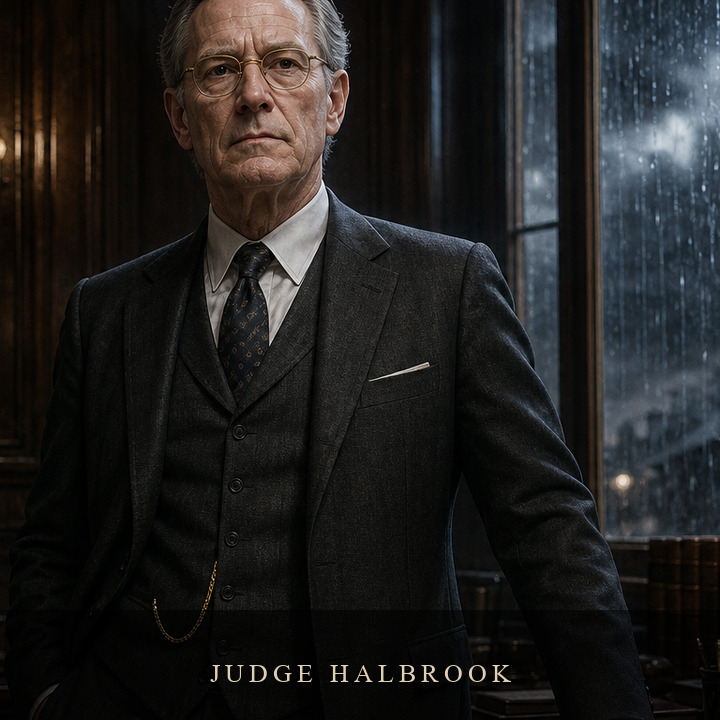
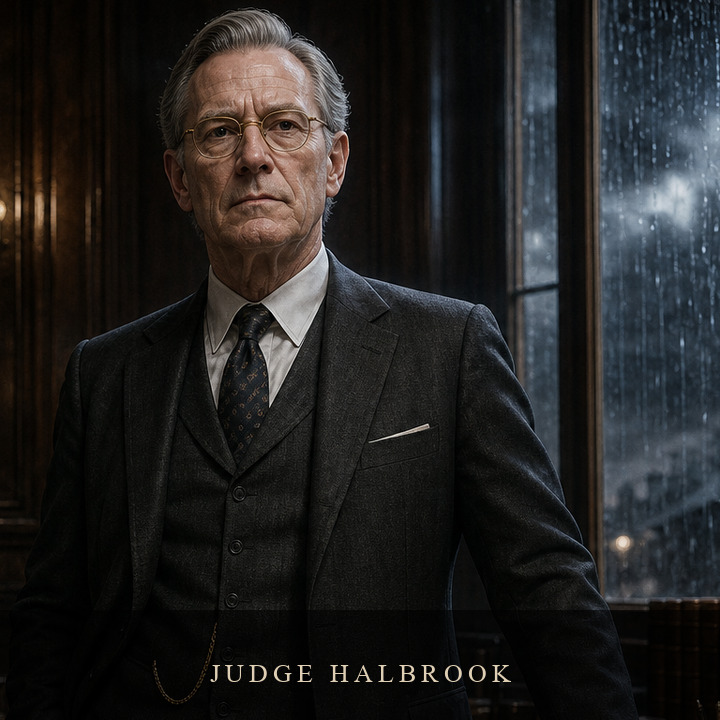
Give Halbrook a little room above his hair on the wheel card.

diff --git a/lib/chapterOneWheel.js b/lib/chapterOneWheel.js
@@ -47,7 +47,7 @@ export const CHAPTER_ONE_WHEEL = [
   {"id": "34-dorathy-edwards-pike", "name": "Dorathy Edwards-Pike", "src": "/characters/wheel/34-dorathy-edwards-pike.jpg"},
   {"id": "35-morgan-fields", "name": "Morgan Fields", "src": "/characters/wheel/35-morgan-fields.jpg"},
   {"id": "37-grace-allison", "name": "Grace Allison", "src": "/characters/wheel/37-grace-allison.jpg", "line": "DA"},
-  {"id": "95-judge-halbrook", "name": "Judge Halbrook", "src": "/characters/wheel/95-judge-halbrook-namecard.jpg?v=fill-0920", "line": "The bench after Gatson"}
+  {"id": "95-judge-halbrook", "name": "Judge Halbrook", "src": "/characters/wheel/95-judge-halbrook-namecard.jpg?v=hair-0920", "line": "The bench after Gatson"}
 ];
 
 /** Not on the Book One wheel. Public copy: “Book Two” only — never the title or cover. */
